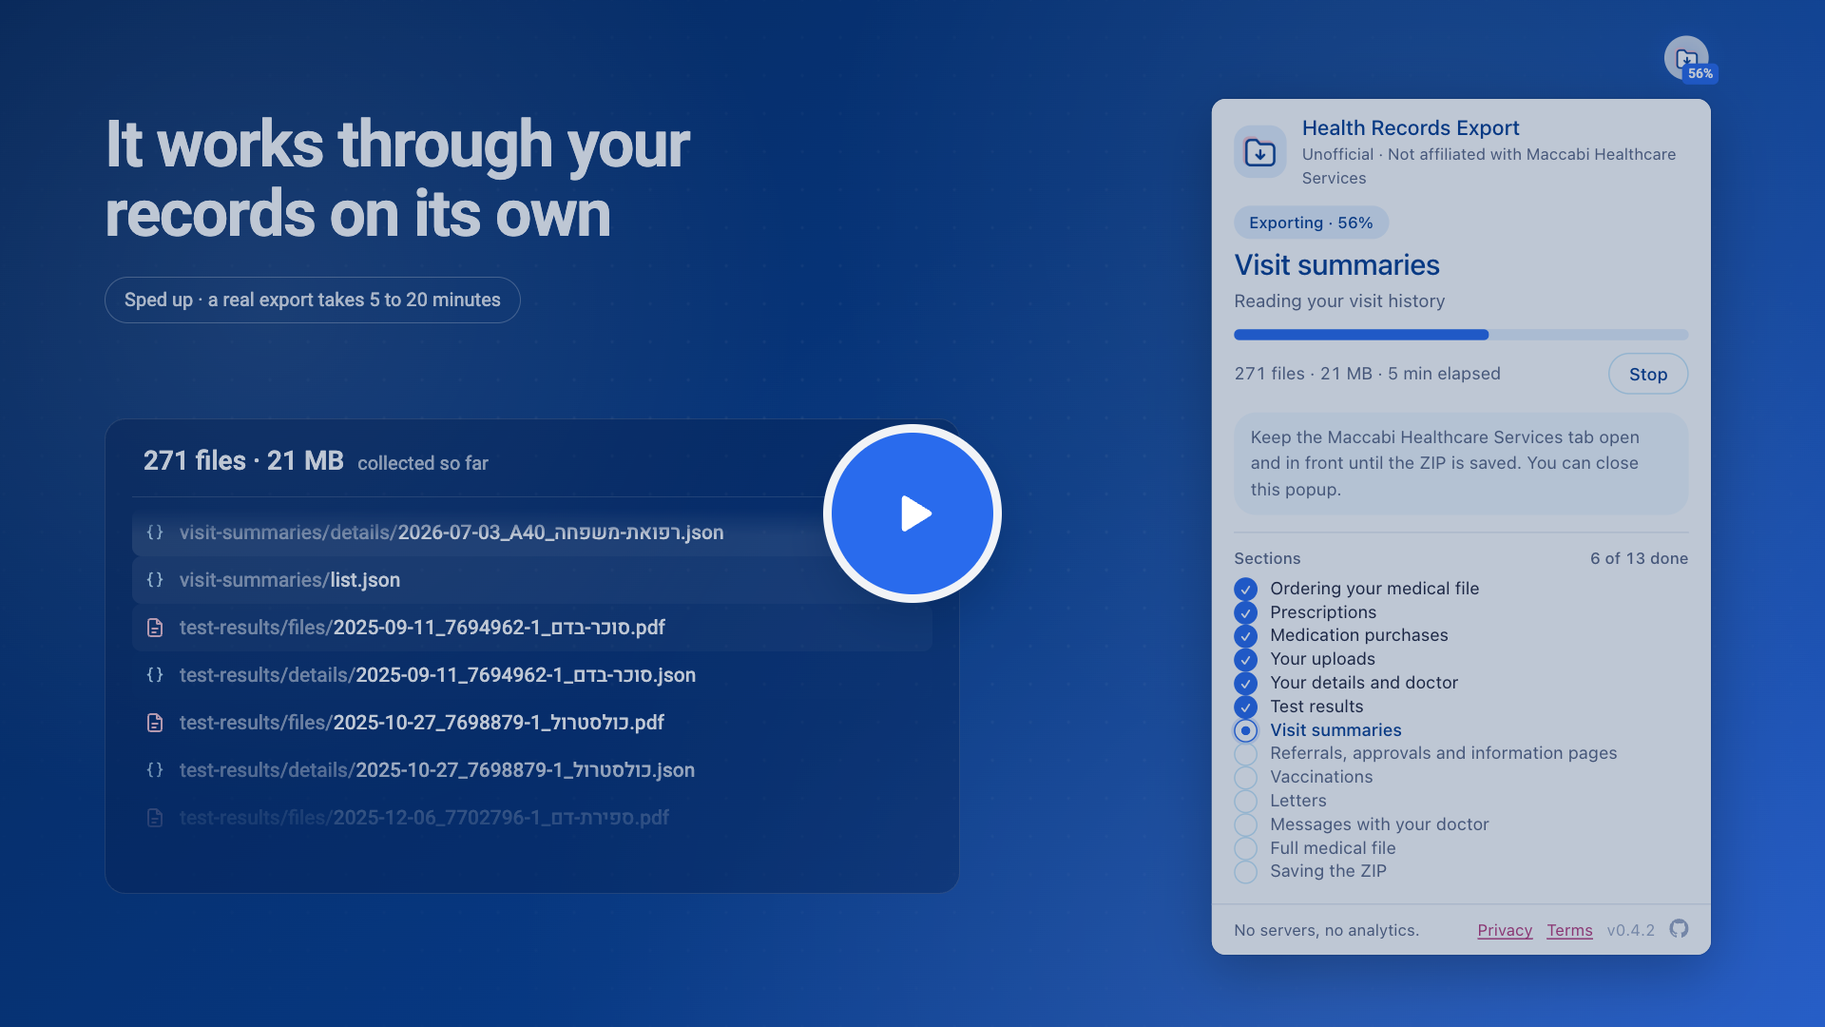
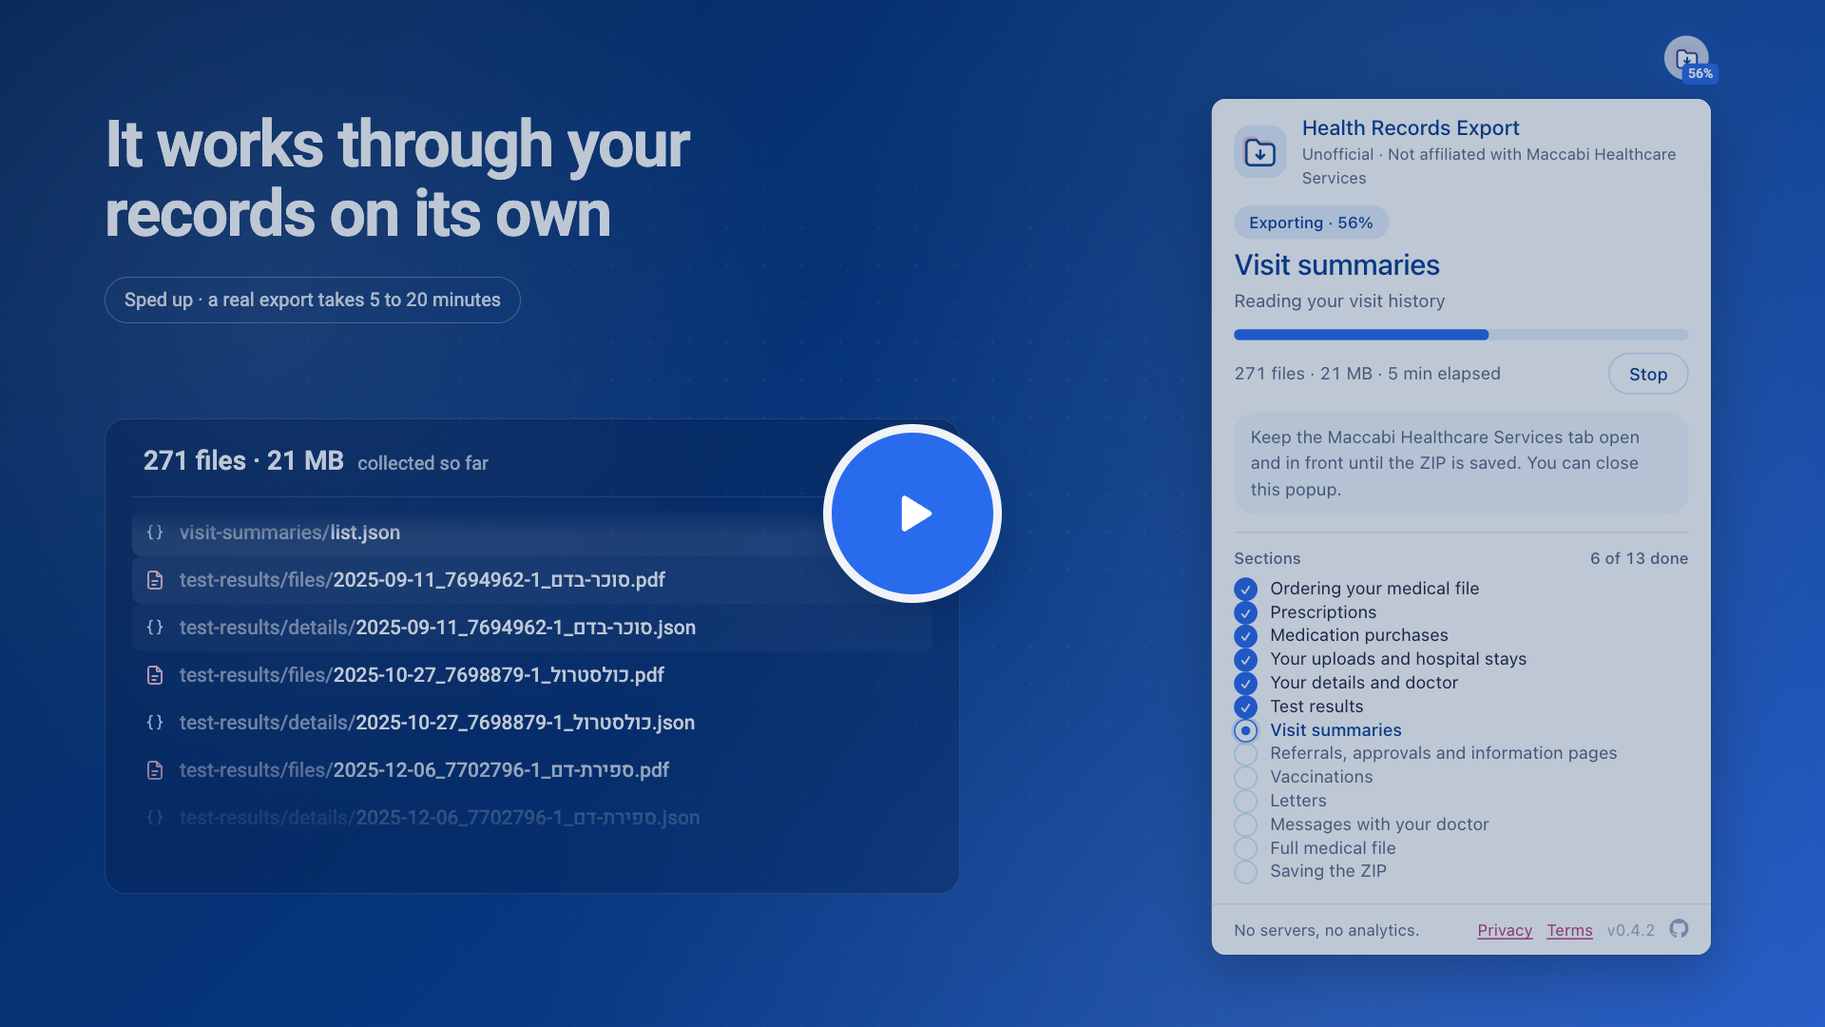
Collect hospital stays, and record what else was checked and left out
A new legacy step, hospitalStays, reads the hospital-admissions service on the old site
from the summary page the run already opens. It asks for every year: the site's own page
asks for three, and returned none of the stays the full range finds. The saved list trims
the service's padding and drops blank entries and exact repeats; the folder appears only
when there are stays.

docs/endpoints.json now records the session's one-hour cap (F5_ST) and the reads that were
checked live and deliberately not collected: the English summary, the image-only lab
report PDFs and the other reprints of data the export already has.

diff --git a/src/core/sections/other.ts b/src/core/sections/other.ts
@@ -76,6 +76,75 @@ function uploadName(info: Json, id: Json): string {
   return stem(iso(info.DocumentDate), safe(id), titleOf(info, UPLOAD_TITLE));
 }
 
+const HOSPITAL_URL = '/online/webapi/MailingsFromHospitals/GetMailingsFromHospitals/';
+// DDMMYYYY, as the page's own date picker sends them. The page asks for its last YearsBack (3) years
+// only, but the service takes any range and returns older stays too (seen 2026-09-23: four from 2001,
+// none of them within three years), so it is asked for everything.
+const HOSPITAL_BODY = { isDateSelected: true, fromDate: '01011900', toDate: '31122099' };
+
+// Hospital stays exist only on the legacy site, as a JSON service behind its hospital-reports page;
+// any legacy page opened in the session is enough for it to answer.
+export async function hospitalStays(c: Collector, _ctx: Ctx): Promise<void> {
+  const REL = 'hospital-stays/list.json';
+  try {
+    c.progress(0, 1, 'hospital stays');
+    const r = await c.legacy(HOSPITAL_URL, 'POST', { 'Content-Type': 'application/json; charset=utf-8' }, JSON.stringify(HOSPITAL_BODY));
+    await c.sleep(PACE_MS);
+    // Requests from the tab follow redirects, so a logged-out session answers with a web page.
+    if (!/json/.test(r.contentType)) {
+      await c.problem(REL, 'HTTP ' + r.status + ' ' + (r.contentType || 'no content type') + ', not data -- was the session logged out?');
+      return;
+    }
+    const data = JSON.parse(c.legacyText(r));
+    const code = data && data.ResultMessage && data.ResultMessage.Code;
+    if (r.status !== 200 || code !== 0) {
+      await c.problem(REL, 'HTTP ' + r.status + ', result code ' + code);
+      return;
+    }
+    const stays = cleanStays(data.ReportHospitalizations || []);
+    // Most members have none; like the sections in emptySections, the folder appears only with data.
+    if (!stays.length) return;
+    await c.save(REL, {
+      endpoint: 'POST ' + HOSPITAL_URL,
+      request_body: HOSPITAL_BODY,
+      omitted: ['data.ResultMessage'],
+      cleaned: 'padding trimmed from every string; blank Description entries and exactly repeated stays dropped',
+      fetched_at: new Date(c.now()).toISOString(),
+      status: r.status,
+      data: { ReportHospitalizations: stays },
+    });
+  } catch (e) {
+    if (isControl(e)) throw e;
+    await c.problem(REL, errMessage(e));
+  }
+}
+
+/**
+ * The service pads every string to a fixed width, fills DescriptionTreatment and
+ * DescriptionDistinction to four entries with blank ones, and can list one stay twice. None of
+ * that is data, and all of it costs an assistant reading time.
+ */
+function cleanStays(rows: Json[]): Json[] {
+  const seen = new Set<string>();
+  const out: Json[] = [];
+  for (const row of rows) {
+    const stay: Json = {};
+    for (const [k, v] of Object.entries(row as Record<string, Json>)) {
+      if (typeof v === 'string') stay[k] = v.trim();
+      else if (Array.isArray(v)) {
+        stay[k] = v
+          .map((e: Json) => (e && typeof e.Description === 'string' ? { ...e, Description: e.Description.trim() } : e))
+          .filter((e: Json) => !(e && e.Description === ''));
+      } else stay[k] = v;
+    }
+    const key = JSON.stringify(stay);
+    if (seen.has(key)) continue;
+    seen.add(key);
+    out.push(stay);
+  }
+  return out;
+}
+
 export async function emptySections(c: Collector, _ctx: Ctx): Promise<void> {
   const member = [{ member_id_code: '0', member_id: c.session.mid }];
   const checks: [string, string, string, Json, (d: Json) => unknown][] = [

diff --git a/test/collector.test.ts b/test/collector.test.ts
@@ -92,6 +92,7 @@ describe('full run against the fake site', () => {
       'communication-with-doctor/list.json',
       'my-doctor/assigned-practitioners.json',
       'my-doctor/eligibilities.json',
+      'hospital-stays/list.json',
       'info-pages/list.json',
       'letters/files/2026-04-01_L1_מכתב-שיחרור.pdf',
       'letters/list.json',
@@ -153,7 +154,18 @@ describe('full run against the fake site', () => {
     expect(mem.json('medications-and-prescriptions/purchased-report.json').omitted).toEqual(['data.base64']);
     expect(new TextDecoder().decode(mem.files.get('medications-and-prescriptions/files/purchased-report.pdf'))).toBe('%PDF-1.4 report');
     expect(mem.files.get('uploads/files/2026-05-01_F1_סיכום-אשפוז.pdf')).toEqual(PDF);
-    expect(s.results).toEqual({ written: 39 });
+    // Hospital stays: every year asked for, not the page's three; padding, blank entries and the
+    // repeated stay gone.
+    expect(site.calls).toContain('POST /online/webapi/MailingsFromHospitals/GetMailingsFromHospitals/');
+    const stays = mem.json('hospital-stays/list.json');
+    expect(stays.request_body).toEqual({ isDateSelected: true, fromDate: '01011900', toDate: '31122099' });
+    expect(stays.data.ReportHospitalizations).toHaveLength(1);
+    expect(stays.data.ReportHospitalizations[0]).toMatchObject({
+      NameHospital: 'בית חולים לדוגמה',
+      DescriptionTreatment: [{ Description: 'HOSPITALIZATION - PER DAY' }],
+      DescriptionDistinction: [],
+    });
+    expect(s.results).toEqual({ written: 40 });
   });
 
   it('a second run into the same files changes nothing and skips unchanged work', async () => {
@@ -171,6 +183,16 @@ describe('full run against the fake site', () => {
     expect(site2.calls.filter((u) => /pdf|compare\?|report/.test(u))).toEqual([]);
   });
 
+  it('reports hospital stays answered with a web page as a problem, and writes nothing', async () => {
+    const site = fakeMaccabi();
+    const logout: HttpResponse = { status: 200, redirected: false, contentType: 'text/html; charset=utf-8', bytes: new TextEncoder().encode('<html>logged out</html>') };
+    const t = fakeTransport([(_req, url) => (url.pathname.includes('MailingsFromHospitals') ? logout : undefined), ...site.routes]);
+    const { c, sink } = makeCollector(t);
+    const s = await runAll(c, newCtx(), ['hospitalStays']);
+    expect(s.problems).toEqual([expect.stringMatching(/^hospital-stays\/list\.json PROBLEM: HTTP 200 text\/html.*logged out\?/)]);
+    expect([...(sink as MemorySink).files.keys()]).toEqual([]);
+  });
+
   it('runs only the named steps and stops at SESSION ENDED', async () => {
     const site = fakeMaccabi();
     let n = 0;
@@ -181,6 +203,6 @@ describe('full run against the fake site', () => {
     expect(s.stoppedAt).toBe('visits');
     expect(s.problems[0]).toMatch(/^visits PROBLEM: SESSION ENDED/);
     expect([...(sink as MemorySink).files.keys()]).toEqual([]);
-    expect(STEP_ORDER).toHaveLength(13);
+    expect(STEP_ORDER).toHaveLength(14);
   });
 });

diff --git a/src/extension/shared/state.ts b/src/extension/shared/state.ts
@@ -12,7 +12,7 @@ export const SONLINE_PAGE = MACCABI_ORIGIN + '/sonline/';
 /**
  * The one legacy page a run opens. Legacy services answer only once some /online/ page has been
  * loaded in the session, and the medical-file order has to be sent from this one, so it serves the
- * purchases, uploads and order steps together and the run crosses to the old site once.
+ * purchases, uploads, hospital stays and order steps together and the run crosses to the old site once.
  */
 export const SUMMARY_PAGE = MACCABI_ORIGIN + '/online/medicalfile/summary/';
 
@@ -32,7 +32,8 @@ export type RunStatus =
 export const PLAN = [
   // The medical file is ordered first so Maccabi builds it while the rest is collected: by the time
   // waitMedicalFile runs, it is normally ready and there is nothing left to wait for. The legacy
-  // page it is ordered from serves the purchases and uploads too, so the run still crosses once.
+  // page it is ordered from serves the purchases, uploads and hospital stays too, so the run still
+  // crosses once.
   'openLegacyPage',
   'orderMedicalFile',
   // Prescriptions sit next to the purchases they belong with: both write to
@@ -41,6 +42,7 @@ export const PLAN = [
   'medications',
   'purchases',
   'savedDocuments',
+  'hospitalStays',
   'returnToSonline',
   'profileAndDoctors',
   'testResults',
@@ -81,6 +83,7 @@ export const WEIGHTS: Record<PlanStep, number> = {
   openLegacyPage: 1,
   purchases: 3,
   savedDocuments: 3,
+  hospitalStays: 1,
   orderMedicalFile: 1,
   returnToSonline: 1,
   // Small now that it runs last: the file has had the whole collection to be built, so this is
@@ -104,6 +107,7 @@ export const LABELS: Record<PlanStep, string> = {
   openLegacyPage: 'Opening the medical file page',
   purchases: 'Medication purchases',
   savedDocuments: 'Your uploads',
+  hospitalStays: 'Hospital stays',
   orderMedicalFile: 'Ordering your medical file',
   returnToSonline: 'Back to the new site',
   waitMedicalFile: 'Waiting for your medical file',
@@ -177,12 +181,13 @@ export interface StateReply {
 
 /**
  * Steps that run on the page an earlier step opened. orderMedicalFile is not here: it reopens the
- * page itself when it has to, so resuming at the order does not repeat the purchases and uploads
- * that share that page.
+ * page itself when it has to, so resuming at the order does not repeat the purchases, uploads
+ * and hospital stays that share that page.
  */
 const OPENED_BY: Partial<Record<PlanStep, PlanStep>> = {
   purchases: 'openLegacyPage',
   savedDocuments: 'openLegacyPage',
+  hospitalStays: 'openLegacyPage',
 };
 
 /**

diff --git a/src/extension/shared/readme.ts b/src/extension/shared/readme.ts
@@ -101,6 +101,14 @@ document once.`,
     detail: `\`files/\` holds each document in the format it was uploaded in, often a photo or a scan.
 There is no \`list.json\`: the site's list is a web page, not data.`,
   },
+  {
+    name: 'hospital-stays',
+    summary: 'hospital admissions: hospital, department, date and length of stay',
+    detail: `Use \`Date\`: \`DateHospitalization\` is day, month and year run together, not zero-padded.
+\`DescriptionTreatment\` and \`DescriptionDistinction\` **can hold only billing lines** such as
+\`HOSPITALIZATION - PER DAY\` — not treatments or diagnoses. What happened in hospital is in the
+medical file, under the stay's dates.`,
+  },
   { name: 'allergies-sensitivity', summary: 'recorded sensitivities and intolerances (`intolerance[]`)', detail: '' },
   { name: 'appointments', summary: 'future appointments only — past ones are visits, in `visit-summaries/`', detail: '' },
   { name: 'requests-approvals', summary: 'requests and cases the member has open with Maccabi Healthcare Services', detail: '' },
@@ -169,7 +177,8 @@ Where to look: for a health history, the medical file; for a measurement over ti
 since the last visit, whatever is dated after the newest file in \`visit-summaries/\` — results,
 prescriptions, referrals, letters; for an appointment, the medical file's known problems, the latest
 results, recent \`visit-summaries/\` and open \`referrals/\`; for allergies, \`allergies-sensitivity/\`
-and the medical file's sensitivities; for preventive care due, age and sex in
+and the medical file's sensitivities; for hospital stays, \`hospital-stays/\` for when and where,
+the medical file for what happened; for preventive care due, age and sex in
 \`profile/member.json\`, \`vaccinations/\` and the screenings in \`test-results/\`. What the member
 actually bought is in \`purchased-history.html\`, not the prescriptions; neither shows what they take
 now, so ask.

diff --git a/src/extension/popup/model.ts b/src/extension/popup/model.ts
@@ -23,7 +23,9 @@ export const STAGES: Stage[] = [
   // the legacy purchase history and its report, which fail in quite different ways.
   { label: 'Prescriptions', steps: ['medications'] },
   { label: 'Medication purchases', steps: ['purchases'] },
-  { label: 'Your uploads', steps: ['savedDocuments'] },
+  // The uploads and the hospital stays both come from the old site; the stays are one request, too
+  // small for a line of their own.
+  { label: 'Your uploads and hospital stays', steps: ['savedDocuments', 'hospitalStays'] },
   { label: 'Your details and doctor', steps: ['returnToSonline', 'profileAndDoctors'] },
   { label: 'Test results', steps: ['testResults'] },
   { label: 'Visit summaries', steps: ['visits'] },
@@ -106,13 +108,14 @@ export const DESCRIPTIONS: Record<PlanStep, Record<string, string>> = {
   letters: { '': 'Reading your letters', letters: 'Downloading your letters as PDFs' },
   doctorCommunications: { '': 'Reading your messages to your doctor', 'doctor inquiries': 'Downloading messages and attached forms' },
   emptySections: { '': 'Checking sections that are often empty', 'other sections': 'Checking allergies, appointments and requests' },
-  openLegacyPage: { '': 'Needed for purchases, uploads and the order' },
+  openLegacyPage: { '': 'Needed for the old site’s records and the order' },
   purchases: {
     '': 'Reading every medication purchase',
     'purchase history': 'Reading every medication purchase',
     'purchase report': 'Creating the 2-year purchase report PDF',
   },
   savedDocuments: { '': 'Reading the documents you uploaded', 'saved documents': 'Downloading the documents you uploaded' },
+  hospitalStays: { '': 'Reading your hospital stays', 'hospital stays': 'Reading your hospital stays' },
   orderMedicalFile: { '': 'Ordering a fresh copy (you’ll get an SMS)' },
   returnToSonline: { '': 'Keeps your session alive during the wait' },
   waitMedicalFile: {

diff --git a/test/fakes.ts b/test/fakes.ts
@@ -93,6 +93,16 @@ export function fakeMaccabi(letterState: LetterState = { medicalFile: null }): {
     ['POST', '/online/Ajax/PHR/WsPHRManager.asmx/SearchByDate', () => jsonResp({ d: '<div fileid="F1"><a onclick="PHR.OpenFile(\'SYS1.pdf\')">x</a></div>' })],
     ['POST', '/online/Ajax/PHR/WsPHRManager.asmx/GetFileDetails', () => jsonResp({ d: [{ DocumentSystemName: 'SYS1', DocumentName: 'סיכום אשפוז', DocumentDate: '2026-05-01T00:00:00' }] })],
     ['GET', '/online/Pages/Popups/PHR/PHRDownloadDocument.aspx', () => bytesResp(PDF)],
+    // Padded strings, blank Description entries and one stay listed twice, as the service sends them.
+    ['POST', '/online/webapi/MailingsFromHospitals/GetMailingsFromHospitals/', () => {
+      const stay = {
+        NameHospital: 'בית חולים לדוגמה   ', Department: 'פנימית א', DateHospitalization: '3032024', Date: '2024-03-03T00:00:00',
+        DurationHospitalization: '2', QuantityTreatments: '2', TypeCommitment: 'אשפוז', TypeCommitmentEgenKey: '1', LinkPDF: '', HasLink: false,
+        DescriptionTreatment: [{ Description: 'HOSPITALIZATION - PER DAY      ' }, { Description: '      ' }],
+        DescriptionDistinction: [{ Description: '      ' }],
+      };
+      return jsonResp({ ReportHospitalizations: [stay, stay], ResultMessage: { Code: 0, Description: '' } });
+    }],
   ];
   const route: Route = (req, url) => {
     calls.push(req.method + ' ' + url.pathname + url.search);

diff --git a/src/core/steps.ts b/src/core/steps.ts
@@ -1,5 +1,5 @@
 import { errMessage, isControl, type Collector } from './collector';
-import { doctorCommunications, emptySections, savedDocuments } from './sections/other';
+import { doctorCommunications, emptySections, hospitalStays, savedDocuments } from './sections/other';
 import { letters } from './sections/letters';
 import { medications, purchases } from './sections/medications';
 import { profileAndDoctors } from './sections/profile';
@@ -25,6 +25,7 @@ export const STEPS = {
   letters,
   doctorCommunications,
   savedDocuments,
+  hospitalStays,
   emptySections,
 } satisfies Record<string, Step>;
 
@@ -32,7 +33,7 @@ export type StepName = keyof typeof STEPS;
 export const STEP_ORDER = Object.keys(STEPS) as StepName[];
 
 /** Steps that use the legacy /online/ services (need a legacy page opened in the session). */
-export const LEGACY_STEPS: StepName[] = ['purchases', 'savedDocuments'];
+export const LEGACY_STEPS: StepName[] = ['purchases', 'savedDocuments', 'hospitalStays'];
 
 /**
  * Runs one step. A failure inside it is recorded as a problem under the step's

diff --git a/test/state.test.ts b/test/state.test.ts
@@ -5,6 +5,7 @@ describe('resumeIndex', () => {
   it('opens the legacy page again before its steps', () => {
     expect(PLAN[resumeIndex(PLAN.indexOf('purchases'))]).toBe('openLegacyPage');
     expect(PLAN[resumeIndex(PLAN.indexOf('savedDocuments'))]).toBe('openLegacyPage');
+    expect(PLAN[resumeIndex(PLAN.indexOf('hospitalStays'))]).toBe('openLegacyPage');
   });
 
   it('continues other steps where they stopped', () => {
@@ -17,7 +18,7 @@ describe('resumeIndex', () => {
 
   it('crosses to the old site once, at the start, and comes back for the rest', () => {
     const order = (s: (typeof PLAN)[number]) => PLAN.indexOf(s);
-    for (const legacy of ['orderMedicalFile', 'purchases', 'savedDocuments'] as const) {
+    for (const legacy of ['orderMedicalFile', 'purchases', 'savedDocuments', 'hospitalStays'] as const) {
       expect(order('openLegacyPage')).toBeLessThan(order(legacy));
       expect(order(legacy)).toBeLessThan(order('returnToSonline'));
     }

diff --git a/public/privacy.html b/public/privacy.html
@@ -32,7 +32,7 @@
       <li>
         Your medical records as Maccabi Online shows them: test results, visit summaries, prescriptions and purchases,
         referrals and approvals, vaccinations, letters, your full medical file, inquiries to doctors, documents you saved,
-        and the PDF files attached to them.
+        hospital stays, and the PDF files attached to them.
       </li>
       <li>Your first name, which the popup shows so you can check which member is logged in.</li>
       <li>Your personal details as they appear in your Maccabi Online profile, and the doctors assigned to you.</li>

diff --git a/src/extension/background/runner.ts b/src/extension/background/runner.ts
@@ -373,7 +373,7 @@ async function runPlanStep(step: PlanStep): Promise<void> {
       await runStep(c, run.ctx, step as StepName);
       // Legacy services don't report an ended session; a failed request is the sign of one.
       if (LEGACY_STEPS.includes(step as StepName) && c.log.some((x) => /PROBLEM: .*Failed to fetch/.test(x[1]))) {
-        throw new SessionEndedError('the old medications and documents pages stopped answering');
+        throw new SessionEndedError("the old site's pages stopped answering");
       }
     }
   }

diff --git a/README.md b/README.md
@@ -38,7 +38,7 @@ earliest visit. It helps you understand your records and prepare for your doctor
 - **In your language.** The records are mostly in Hebrew. Ask about them, and get answers, in English or whatever you
   speak.
 - **Thorough.** Test results, visit summaries, prescriptions and purchases, referrals, vaccinations, letters, doctor
-  inquiries and saved documents, plus a freshly ordered copy of your full medical file. Some things
+  inquiries, saved documents and hospital stays, plus a freshly ordered copy of your full medical file. Some things
   [aren't included](#not-included).
 - **Private.** Your records stop at your computer, and you choose which assistant, if any, reads them. Talks only to
   `online.maccabi4u.co.il`. No servers, no analytics, no remote code. Never sees your password.
@@ -139,6 +139,7 @@ One folder, `maccabi-export-YYYY-MM-DD/`:
 | `letters/` | Letters and their PDFs |
 | `communication-with-doctor/` | Inquiries to doctors and attached forms |
 | `uploads/` | Documents you uploaded and their files |
+| `hospital-stays/` | Hospital admissions: hospital, department, date and length of stay. Only when the site lists any |
 | `allergies-sensitivity/`, `appointments/` (future only), `requests-approvals/` | Only when the site has something in them |
 | `<date>_medical-file.pdf` | Your full medical file, freshly ordered: one document covering your whole history, and the place to start |
 | `README.md` | Instructions for an AI assistant, and the export's own data dictionary: what each folder holds, how a record is shaped, which fields carry no meaning, and what the export does **not** contain |
@@ -310,12 +311,12 @@ flowchart LR
 ```
 
 The service worker walks a fixed plan (`PLAN` in `src/extension/shared/state.ts`): one crossing to the old site to
-order the medical file and collect purchases and uploads, back to `/sonline/` for the REST API sections, and the
+order the medical file and collect purchases, uploads and hospital stays, back to `/sonline/` for the REST API sections, and the
 medical file collected last, by which time Maccabi Healthcare Services has had the whole run to build it. Each finished step is
 checkpointed in `chrome.storage.local`, so a paused run, or a restarted service worker, continues from there.
 
 The tab visits a single legacy page, `/online/medicalfile/summary/`. The legacy services answer only after some
-`/online/` page has been loaded in the session, and the medical file order has to be sent from that one, so the three
+`/online/` page has been loaded in the session, and the medical file order has to be sent from that one, so the four
 steps that need the old site share it. The run returns to `/sonline/` before waiting for the medical file: the site
 renews the session token only there, and the wait is the longest part of the run.
 

diff --git a/docs/privacy.md b/docs/privacy.md
@@ -20,7 +20,7 @@ checks that tab's login session and reads your first name. It reads the rest whe
 
 - Your medical records as Maccabi Online shows them: test results, visit summaries, prescriptions and
   purchases, referrals and approvals, vaccinations, letters, your full medical file, inquiries to doctors, documents
-  you saved, and the PDF files attached to them.
+  you saved, hospital stays, and the PDF files attached to them.
 - Your first name, which the popup shows so you can check which member is logged in.
 - Your personal details as they appear in your Maccabi Online profile, and the doctors assigned to you.
 - Your Maccabi Online session token, member ID number and the gender recorded in your login session, which let the
